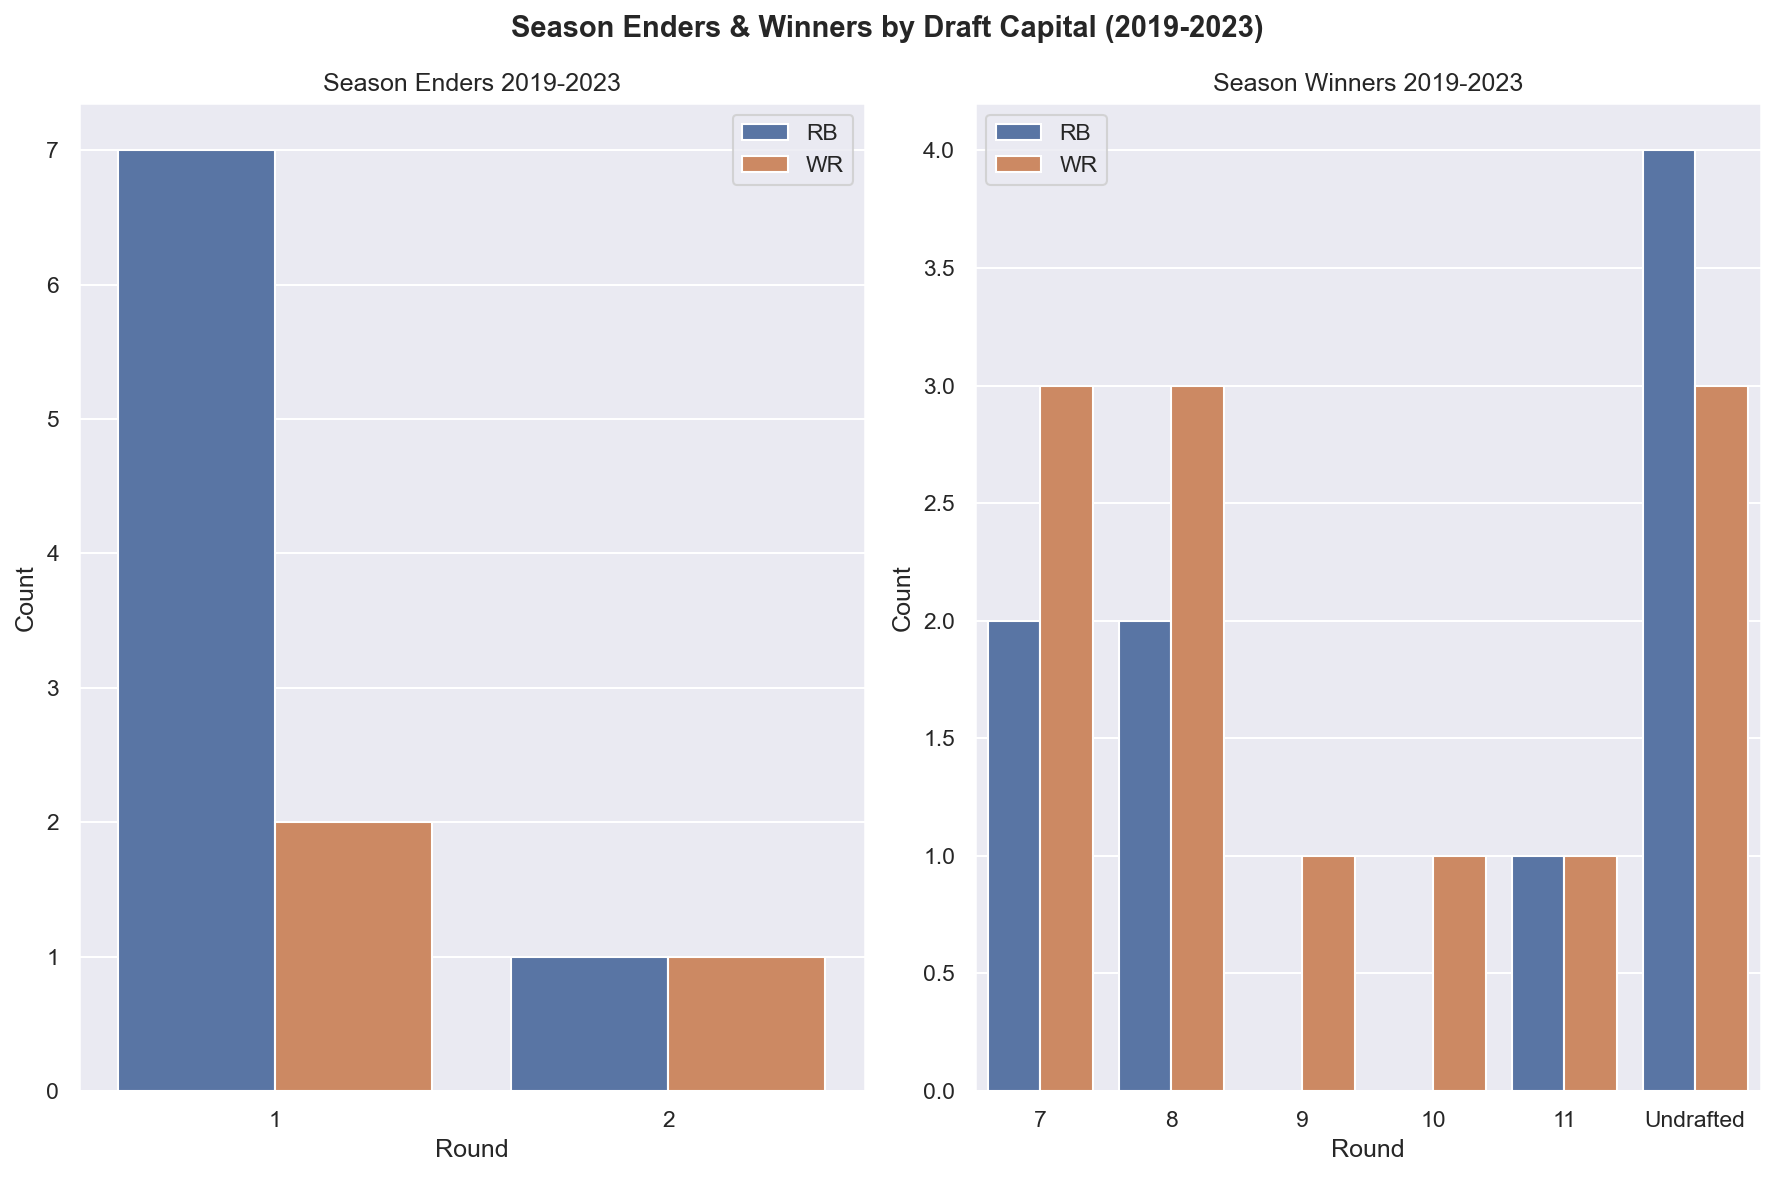
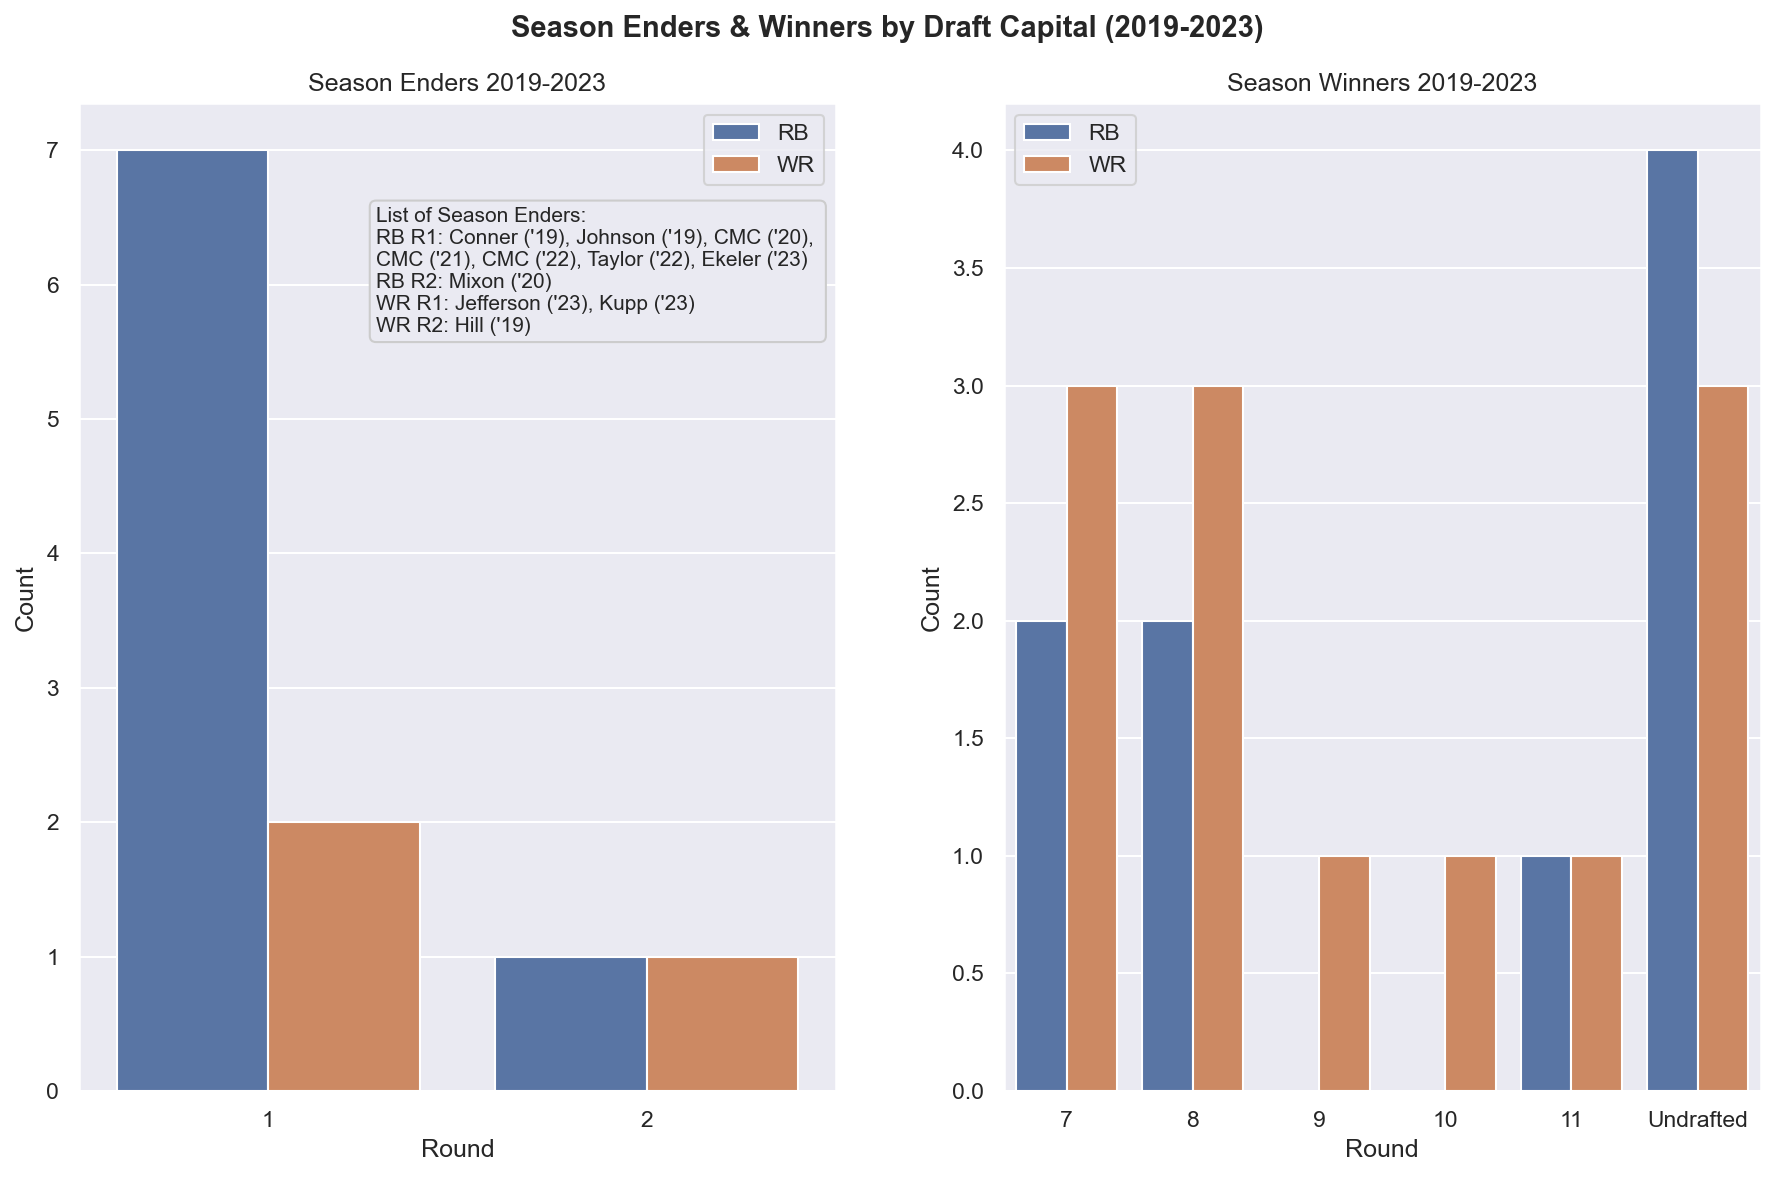
Add list of Season Ender players to Season Ender/winners chart

diff --git a/adp_data.py b/adp_data.py
@@ -53,6 +53,15 @@ busts_by_round = outcome_by_round[outcome_by_round['draft_outcome'].isin(['Big B
 values_by_round = outcome_by_round[outcome_by_round['draft_outcome'].isin(['Big Value', 'Value'])]
 
 
+#adding name tags to season enders
+se_list = ("List of Season Enders: \nRB R1: Conner ('19), Johnson ('19), CMC ('20), \nCMC ('21), CMC ('22), Taylor ('22), Ekeler ('23)\n"
+            "RB R2: Mixon ('20)\n"
+            "WR R1: Jefferson ('23), Kupp ('23)\n"
+            "WR R2: Hill ('19)")
+
+
+
+#print(draft_adp_merged[draft_adp_merged['draft_outcome'] == 'Season Ender'][['player_display_name', 'position', 'season', 'adp_round']])
 # print(season_winners[season_winners['adp_round'] == 16])
 # print(draft_adp_merged[(draft_adp_merged['position'] == 'RB') & (draft_adp_merged['adp_round']>=4) & (draft_adp_merged['adp_round']<=6) & (draft_adp_merged['rank']<18)].shape)
 # print(draft_adp_merged['draft_outcome'].value_counts())

diff --git a/visualizations.py b/visualizations.py
@@ -6,7 +6,7 @@ from explore_data import flex_players
 from explore_data import position_starters
 from explore_data import flex_depth
 from explore_data import seasons
-from adp_data import outcome_counts
+from adp_data import outcome_counts, se_list
 from adp_data import busts_by_round, values_by_round, season_winners, season_enders
 
 
@@ -92,6 +92,10 @@ for idx, (data, title) in enumerate(zip([season_enders, season_winners], ['Seaso
     labels = ['Undrafted' if label.get_text() == '16.0' else int(float(label.get_text())) for label in current_labels]
     axes[idx].set_xticklabels(labels)
 
+
+axes[0].text(.285, 5.65, s=se_list, fontsize=10, bbox={'facecolor': '#EAEAF2', 'edgecolor': '#CCCCCC', 'boxstyle': 'round'})
+print(axes[0].get_xlim())
+print(axes[0].get_ylim())
 
 
 fig.suptitle('Season Enders & Winners by Draft Capital (2019-2023)',
